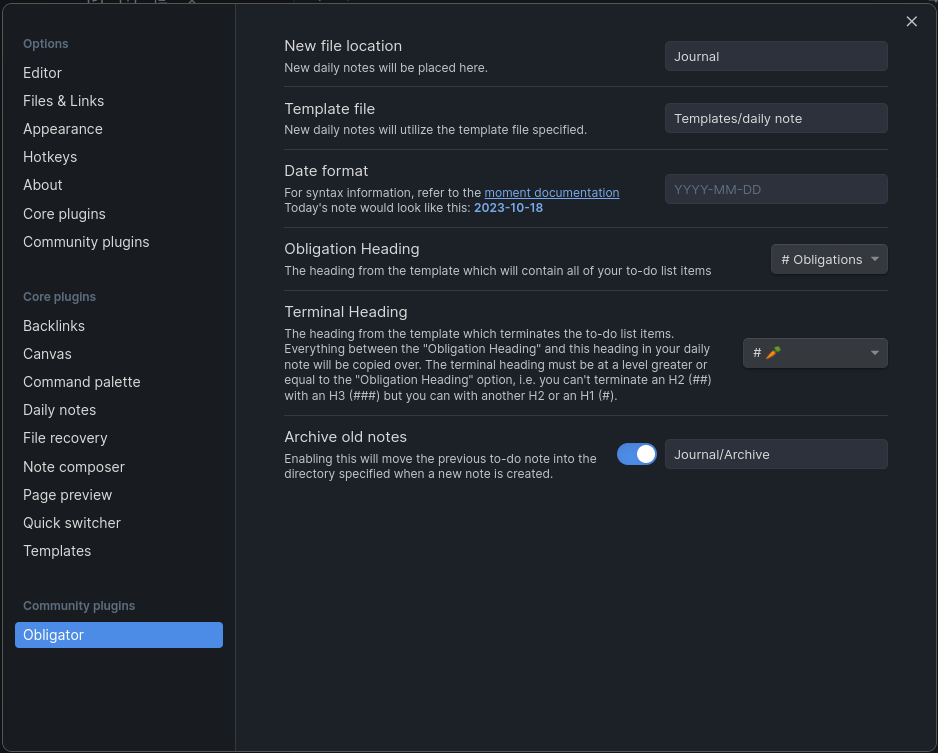
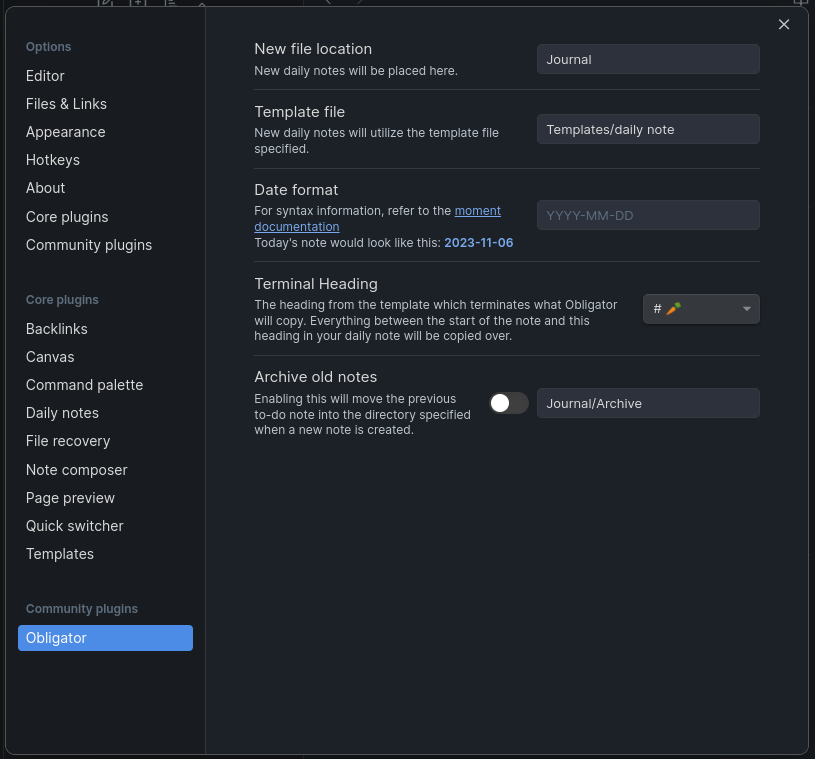
Simplified the settings, no longer requiring a header. Added obligate template documentation. Fixed the settings refresh issue when specifying the template file

diff --git a/src/main.ts b/src/main.ts
@@ -19,7 +19,6 @@ import {
 } from "./ui";
 
 interface ObligatorSettings {
-	heading: string;
 	terminal: string;
 	date_format: string;
 	template_path: string;
@@ -29,7 +28,6 @@ interface ObligatorSettings {
 }
 
 const DEFAULT_SETTINGS: ObligatorSettings = {
-	heading: "",
 	terminal: "",
 	date_format: "YYYY-MM-DD",
 	template_path: "",
@@ -38,8 +36,9 @@ const DEFAULT_SETTINGS: ObligatorSettings = {
 	archive_path: ""
 }
 
-const HEADING_REGEX        = /^#{1,7} +\S.*/;
+const HEADING_REGEX        = /^#{1,7} +\S.*/m;
 const HEADING_REGEX_GLOBAL = /^#{1,7} +\S.*/gm;
+const CHECKBOX_REGEX = /^\s*-\s+\[[x ]\].*$/m;
 
 const get_heading_level = (heading:string|null) => {
 	if (heading) {
@@ -54,6 +53,8 @@ type Heading = {
 	total: number;
 }
 
+// Structurize takes a set of lines from a note file and structures them
+// hierarchically based on fold scope.
 const structurize = (lines:string[], heading:string|null=null):Heading => {
 	const level = get_heading_level(heading);
 	let total = 0;
@@ -81,6 +82,7 @@ const structurize = (lines:string[], heading:string|null=null):Heading => {
 	return {heading: heading, children: children, total: total};
 }
 
+// Flattens the heirarchy represented by the output of a call to structurize
 const destructure = (structure:Heading):string[] => {
 	let lines = [];
 	if (structure.heading) {
@@ -130,6 +132,8 @@ const merge_structure = (first:Heading, second:Heading) => {
 			}
 		} else {
 			// Add missing children
+			//if (!CHECKBOX_REGEX.test(child) || !first.children.contains(child)) {
+			// TODO For right now kill all duplicates
 			if (!first.children.contains(child)) {
 				const header_index = first.children.findIndex(c => c instanceof Object);
 				if (header_index > -1) {
@@ -282,10 +286,6 @@ export default class Obligator extends Plugin {
 				template_contents = template_contents.replace(/{{previous_note_path}}/g, src_note.path);
 			}
 
-			if (this.settings.heading === "") {
-				new Notice("You must specify the obligation heading in the settings.");
-				return;
-			}
 			if (this.settings.terminal === "") {
 				new Notice("You must specify the terminal heading in the settings.");
 				return;
@@ -303,17 +303,12 @@ export default class Obligator extends Plugin {
 				if (src_note) {
 					let src_content = await this.app.vault.read(src_note);
 					let src_lines = src_content.split('\n')
-					const src_heading_index = src_lines.indexOf(this.settings.heading);
 					const src_terminal_index = src_lines.indexOf(this.settings.terminal);
-					if (src_heading_index === -1) {
-						new Notice("Couldn't find the obligation heading in the last note, aborting.");
-						return;
-					}
 					if (src_terminal_index === -1) {
-						new Notice("Couldn't find the terminal heading in the last note, aborting.");
+						new Notice(`${src_note.basename} does not contain the specified terminal heading... aborting.`);
 						return;
 					}
-					for (let i = src_heading_index+1; i <= src_terminal_index; i++) {
+					for (let i = 0; i <= src_terminal_index; i++) {
 						const line = src_lines[i];
 						const checked = /^\s*- \[x\]/;
 						// only copy over unchecked items
@@ -321,21 +316,16 @@ export default class Obligator extends Plugin {
 							copy_lines.push(line);
 						}
 					}
-					const output_heading_index = output_lines.indexOf(this.settings.heading);
-					if (output_heading_index === -1) {
-						new Notice("Couldn't find the obligation heading in today's note, check your template");
-						return;
-					}
 					const output_terminal_index = output_lines.indexOf(this.settings.terminal);
 					if (output_terminal_index === -1) {
-						new Notice("Couldn't find the terminal heading in today's note, check your template");
+						new Notice("Your template file does not contain the specified terminal heading... aborting.");
 						return;
 					}
 					Array.prototype.splice.apply(
 						output_lines,
 						[
-							output_heading_index+1,
-							output_terminal_index - output_heading_index,
+							0,
+							output_terminal_index+1,
 							...copy_lines
 						]
 					);
@@ -446,12 +436,10 @@ export default class Obligator extends Plugin {
 					}
 				}
 
-				const processed_hi = processed_lines.indexOf(this.settings.heading);
 				const processed_ti = processed_lines.indexOf(this.settings.terminal);
-				const output_hi = output_lines.indexOf(this.settings.heading);
 				const output_ti = output_lines.indexOf(this.settings.terminal);
-				let processed_obligations = structurize(processed_lines.slice(processed_hi, processed_ti));
-				const output_obligations = structurize(output_lines.slice(output_hi, output_ti));
+				let processed_obligations = structurize(processed_lines.slice(0, processed_ti));
+				const output_obligations = structurize(output_lines.slice(0, output_ti));
 				merge_structure(
 					processed_obligations,
 					output_obligations
@@ -460,8 +448,8 @@ export default class Obligator extends Plugin {
 
 				Array.prototype.splice.apply(
 					output_lines, [
-						output_hi,
-						output_ti-output_hi,
+						0,
+						output_ti,
 						...merged_lines
 					]
 				);
@@ -511,14 +499,24 @@ class ObligatorSettingTab extends PluginSettingTab {
 		super(app, plugin);
 		this.plugin = plugin;
 	}
-
-	async getHeadings() {
-		let file = this.app.vault.getAbstractFileByPath(this.plugin.settings.template_path);
+	async is_file(file_path:string) {
+		let file = this.app.vault.getAbstractFileByPath(file_path);
 		if (file === null) {
-			file = this.app.vault.getAbstractFileByPath(`${this.plugin.settings.template_path}.md`);
+			file = this.app.vault.getAbstractFileByPath(`${file_path}.md`);
 		}
 		if (file === null || !(file instanceof TFile)) {
-			return []
+			return false;
+		}
+		return true;
+	}
+
+	async getHeadings(file_path:string) {
+		let file = this.app.vault.getAbstractFileByPath(file_path);
+		if (file === null) {
+			file = this.app.vault.getAbstractFileByPath(`${file_path}.md`);
+		}
+		if (file === null || !(file instanceof TFile)) {
+			return [];
 		}
 		const content = await this.app.vault.read(file);
 		const headings: {[index:string]:any} = Array.from(content.matchAll(HEADING_REGEX_GLOBAL))
@@ -557,10 +555,14 @@ class ObligatorSettingTab extends PluginSettingTab {
 			.addText(text => {
 				new FileSuggest(this.app, text.inputEl);
 				text.setValue(this.plugin.settings.template_path)
-				    .onChange(async value => {
-					this.plugin.settings.template_path = value;
-					await this.plugin.saveSettings();
-					this.display();
+				.onChange(async value => {
+					const check = await this.is_file(value);
+					if (check) {
+						console.log(value);
+						this.plugin.settings.template_path = value;
+						await this.plugin.saveSettings();
+						this.display();
+					}
 				})
 			});
 
@@ -599,53 +601,24 @@ class ObligatorSettingTab extends PluginSettingTab {
 		);
 
 		// --------------------------------------------------------------------
-		// Create the dropdown options for the two heading selections
+		// Create the dropdown options for the terminal heading selection
 		// --------------------------------------------------------------------
-		const level = (str: string) => {
-			return str.split("#").length - 1;
-		};
-		const all_headings = await this.getHeadings();
-		const heading_value = Object.keys(all_headings)
-			.find(key => all_headings[key] === this.plugin.settings.heading) || "";
-		const terminal_value = Object.keys(all_headings)
-			.find(key => all_headings[key] === this.plugin.settings.terminal) || "";
-		const headings = Object.fromEntries(
-			Object.entries(all_headings).filter(([k, v]) =>
-				terminal_value == ""
-				|| (terminal_value > k && level(v) <= level(all_headings[terminal_value]))
-			)
-		);
-		const terminal_headings = Object.fromEntries(
-			Object.entries(all_headings).filter(([k, v]) => k>heading_value)
-		);
-		// --------------------------------------------------------------------
-		// The heading which contains the to-do list items
-		// --------------------------------------------------------------------
-		new Setting(containerEl)
-			.setName('Obligation Heading')
-			.setDesc("The heading from the template which will contain all of your to-do list items")
-			.addDropdown(dropdown => dropdown
-				.addOptions(headings)
-				.setValue(heading_value)
-				.onChange(async value => {
-					this.plugin.settings.heading = headings[value] || null;
-					await this.plugin.saveSettings();
-					this.display();
-				})
-			);
+		const headings = await this.getHeadings(this.plugin.settings.template_path);
+		const terminal_value = Object.keys(headings)
+			.find(key => headings[key] === this.plugin.settings.terminal)
+			|| "";
 		// --------------------------------------------------------------------
 		// The heading which terminates the to-do list items
 		// --------------------------------------------------------------------
 		new Setting(containerEl)
 			.setName('Terminal Heading')
-			.setDesc(`The heading from the template which terminates the to-do list items. Everything between the "Obligation Heading" and this heading in your daily note will be copied over. The terminal heading must be at a level greater or equal to the "Obligation Heading" option, i.e. you can't terminate an H2 (##) with an H3 (###) but you can with another H2 or an H1 (#).`)
+			.setDesc(`The heading from the template which terminates what Obligator will copy. Everything between the start of the note and this heading in your daily note will be copied over.`)
 			.addDropdown(dropdown => dropdown
-				.addOptions(terminal_headings)
+				.addOptions(headings)
 				.setValue(terminal_value)
 				.onChange(async value => {
-					this.plugin.settings.terminal = terminal_headings[value] || null;
+					this.plugin.settings.terminal = headings[value] || null;
 					await this.plugin.saveSettings();
-					this.display();
 				})
 			);
 		// --------------------------------------------------------------------

diff --git a/README.md b/README.md
@@ -1,24 +1,26 @@
 # Obligator
 
 Obligator replaces and extends the function of the built in daily-notes plugin.
-With this plugin, you can specify a starting and terminal header in a daily
-note template which will contain your to-do items.
+This plugin will copy over all of the contents of your daily note file to the
+new one *except for* checked boxes.
 
 Unchecked to-do items will be copied over to the new daily note, along with all
 of the headings and formatting structure you used to organize them. It is a
 convenient way to manage your to-do list, and leaves you with running history
 of to-do items that you can reference if you need to.
 
+
 ![](preview.gif)
 
 ## How to use Obligator
 
-When you click the carrot icon, if today's note doesn't already exist, a new
-note file will be made reflecting today's date. All items between the specified
-header and the terminal header will be copied over, except for finished to-dos.
+Make sure you have fully filled out the settings page, then click the carrot
+icon. If today's note doesn't already exist, a new note file will be made
+reflecting today's date. If it does exist, it will simply bring you to the
+existing file.
 
-See the [example template file](example/daily_note.md) for some inspiration on how
-to set up your daily note. Also see this sample settings page if you're
+See the [example template file](example/daily_note.md) for some inspiration on
+how to set up your daily note. Also see this sample settings page if you're
 confused about how to configure the settings:
 ![](example/settings.png)
 
@@ -30,26 +32,25 @@ confused about how to configure the settings:
    previous note from the current note. If there is no previous note, then
    these variables will be blank.
 
+ * {{ obligate * * * }} is a very powerful template. It lets you set up
+   recurring to-do items in your template. It uses a simplified version of the
+   cron syntax, where the asterisk represent day-of-the-month,
+   month-of-the-year, and day-of-the-week in that order. See [crontab.guru](https://crontab.guru)
+   to play around with the syntax. The obligate template will add the immediately
+   proceeding line if you the date matches **for any day between your
+   last note and today**. See the [example template file](example/daily_note.md)
+   for plenty of common examples. If you are confused about this and want some
+   help, just open a GitHub issue.
+
 ## TO-DO (In priority order)
 * Currently if you have sub-tasks on a recurring note, it won't copy over the
   sub-tasks properly
-* Fix the settings page refreshing killing focus when typing a template file
-* Simplify the settings by removing the start heading.
-* Write documentation explaining how to use the obligate template
 * Make the fold state carry over to the new note.
 * Make it so that checked tasks which have unchecked subtasks will get copied
   over anyway.
 * Add an option to delete empty headings. (probably defined as a heading which
   has no children, where a child is any value except for another heading of
   greater weight)
-
-## Design Philosophy
-
-### Why does the terminal sequence have to be a header?
-The reason for this is to allow the full to-do list to be folded by the header
-specified by the Obligation Header option. If any other terminal sequence is
-used, the obligation header will fold it because its scope encompases that
-terminal sequence.
 
 ## Building
 * `yarn install` (install dependencies)

diff --git a/example/daily_note.md b/example/daily_note.md
@@ -1,8 +1,29 @@
 ----
-# Obligations
-----
 ## Personal tasks
+{{ obligate 1,15 * * }}
+- [ ] water the plants (added on the 1st and 15th of every month)
 ## Work tasks
+{{ obligate * * 3 }}
+- [ ] write the weekly email (added every Wednesday)
+{{ obligate * * 5 }}
+- [ ] send the weekly email (added every Friday)
+## Further Obligator template examples
+{{ obligate * * * }}
+- [ ] every time a new note is made
+{{ obligate 1 2 * }}
+- [ ] Add this on the 1st of February
+{{ obligate * 1-6 1,5 }}
+- [ ] every Monday and Wednesday for the first 6 months of the year
+{{ obligate 1-7,15-21 1,3,5,7,9,11 7 }}
+- [ ] every other Sunday but only every other month
+{{ obligate * 10-12 * }}
+- [ ] every day in Q4
+{{ obligate 1 1,4,7,10 * }}
+- [ ] on the first of every quarter
+{{ obligate 20 10 * }}
+- [ ] on the 20th of October
+{{ obligate 20 10 7 }}
+- [ ] on the 20th of October, if it's a Sunday
 # 🥕
 ----
 
